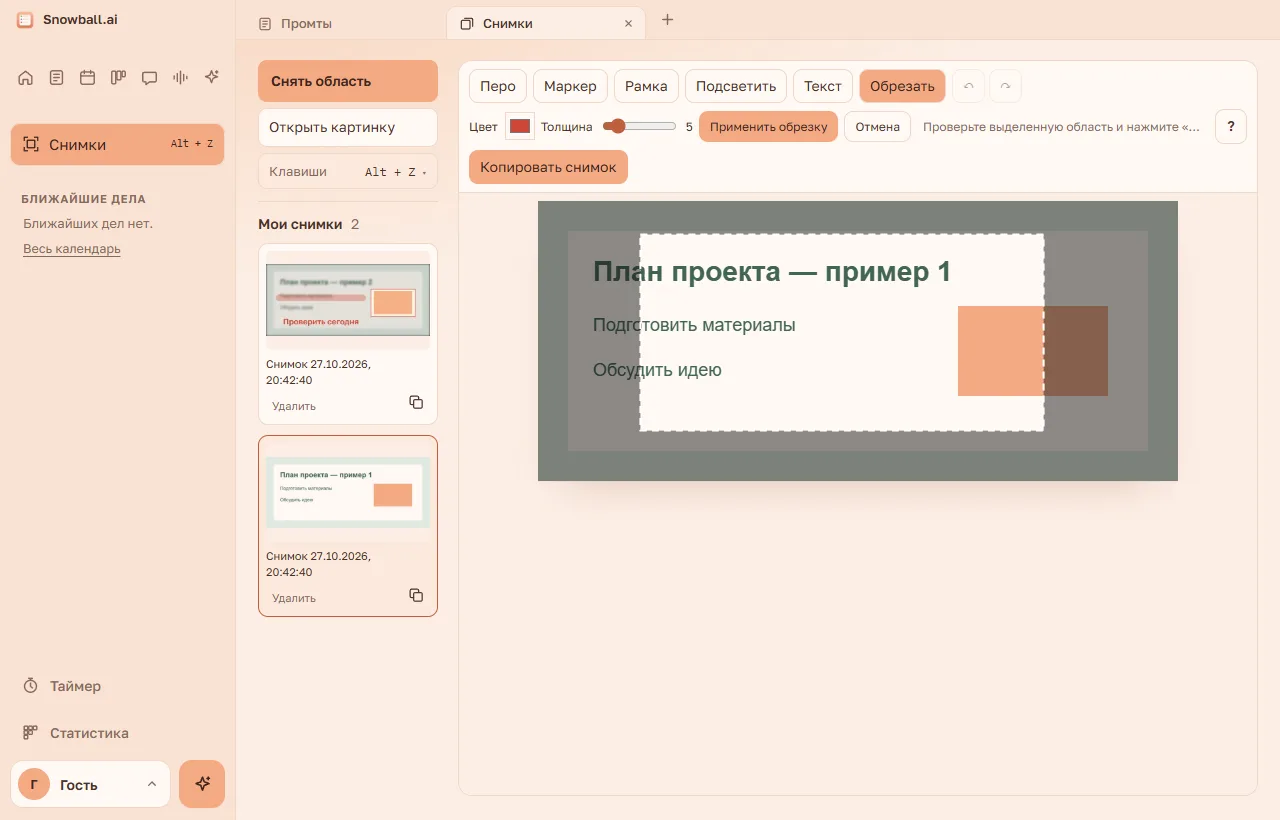
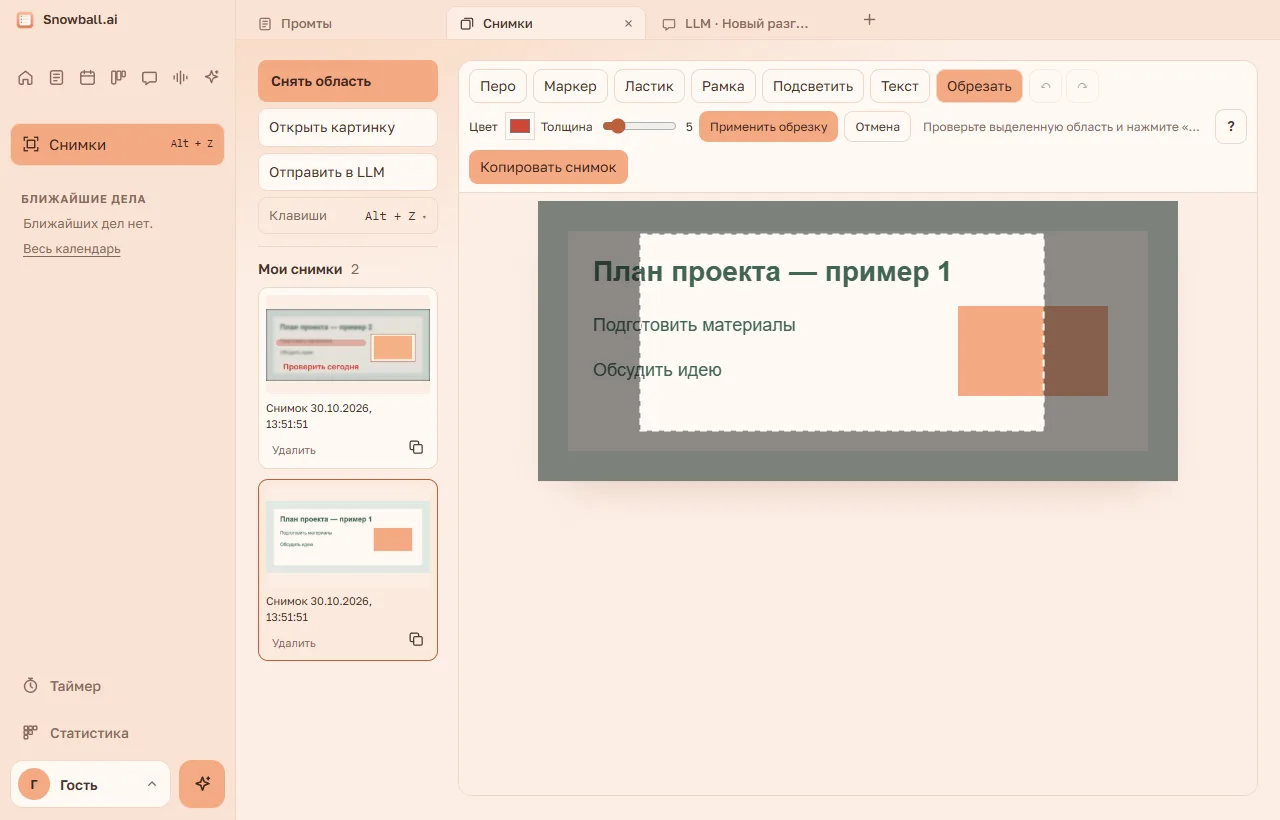
Версия 1.19.0: «Отправить в LLM» в разделе «Снимки»
Кнопка под «Открыть картинку» открывает новую вкладку LLM, где снимок
с пометками и обрезкой уже приложен к сообщению. Работает и из
отдельного окна редактора. Инструкция «Снимков» дополнена шагом и
переснята.

diff --git a/src/guides/guides.js b/src/guides/guides.js
@@ -74,7 +74,7 @@ window.GUIDES = [
       { box: "search", at: [1130, 330], label: "Поиск", text: "Введите слово — останутся только строки с ним, слово подсвечивается." },
       { box: "foot", at: [1130, 560], label: "Кнопки внизу", text: "«Спросить про созвон в LLM» — новый разговор с итогами и текстом. «Пересоздать итоги» — разобрать текст заново. «Убрать итоги» — убрать с дела (само дело остаётся)." }] }] }
   ] },
-  { version: "1.16.0", updated: "1.16.14", section: "screenshots", title: "Снимки", steps: [
+  { version: "1.16.0", updated: "1.19.0", section: "screenshots", title: "Снимки", steps: [
     { title: "Где найти и как снять", lead: "Снимки открываются отдельным разделом. Кнопки захвата — слева над историей, редактор занимает всё остальное место.", frames: [
       { shot: "01-where", points: [
         { box: "section", at: [110, 260], label: "Снимки", text: "Кнопка под иконками слева открывает историю и редактор." },
@@ -102,6 +102,16 @@ window.GUIDES = [
       { box: "blur", at: [700, 580], label: "Блюр фона", text: "Регулируйте размытие вокруг выделенной области. По умолчанию — 15%." },
       { box: "copy", at: [1080, 660], label: "Копировать", text: "В буфер попадёт готовая картинка со всеми пометками. Вставьте её в другую программу через Ctrl + V." }
     ] }] },
+    { title: "Спросить про снимок в LLM", lead: "Снимок можно сразу отдать нейросети: перевести текст на нём, найти ошибку, описать, что на картинке.", frames: [
+      { name: "1. Нажмите", shot: "08-llm-button", points: [
+        { box: "llm", at: [700, 560], label: "Отправить в LLM", text: "Отправляет открытый снимок вместе с пометками и обрезкой — ровно то, что видно в редакторе. Кнопка есть и в отдельном окне, которое открывается после снимка." }
+      ] },
+      { name: "2. Что получится", shot: "09-llm-chat", points: [
+        { box: "tab", at: [700, 120], label: "Новый разговор", text: "Открывается новая вкладка LLM. Прошлые разговоры не трогаются." },
+        { box: "attach", at: [380, 560], label: "Снимок уже здесь", text: "Снимок лежит в поле ввода как приложенная картинка. Крестик убирает его, скрепкой можно добавить ещё." },
+        { box: "input", at: [950, 570], label: "Напишите вопрос", text: "Например, «Переведи текст на картинке» или «Что здесь не так?», и нажмите Enter." }
+      ] }
+    ] },
     { title: "История, копирование и удаление", lead: "Все снимки остаются после перезапуска. С каждым можно работать отдельно.", frames: [{ shot: "05-history", points: [
       { box: "copy", at: [650, 520], label: "Копировать карточку", text: "Значок на карточке копирует именно этот снимок, не переключая текущий редактор." },
       { box: "remove", at: [650, 620], label: "Удалить", text: "Снимок сразу исчезает из истории, а его папка отправляется в корзину Windows." },

diff --git a/src/screenshots.js b/src/screenshots.js
@@ -178,6 +178,7 @@
               <span class="shot-capture-label">Снять область</span>
             </button>
             <button data-action="import">Открыть картинку</button>
+            <button data-action="llm" title="Новый разговор в LLM, где этот снимок уже приложен">Отправить в LLM</button>
             <div class="shot-pop-wrap">
               <button class="shot-key-btn" data-pop="key" aria-expanded="false" title="Сочетание для снимка">
                 <span>Клавиши</span>
@@ -420,6 +421,7 @@
       $('[data-action="undo"]').disabled = !current?.ops.length;
       $('[data-action="redo"]').disabled = !current?.redo.length;
       $('[data-action="copy"]').disabled = !current;
+      $('[data-action="llm"]').disabled = !current;
       $('.shot-crop-actions').hidden = !current || !cropSelection;
       $('[data-action="reset-crop"]').hidden = !current?.crop;
       $('.shot-pressure-label').hidden = tool !== 'marker';
@@ -683,8 +685,9 @@
         await open(initialId && ids.has(initialId) ? initialId : items[0].id);
       initialId = null;
     }
-    async function copyShot(id) {
-      if (!(await flush())) return;
+    // The picture as it looks now: with the marks and the crop, as PNG bytes. Null if the marks could not be saved.
+    async function shotPng(id) {
+      if (!(await flush())) return null;
       let s = current;
       const t = token;
       if (!s || s.id !== id) {
@@ -694,8 +697,20 @@
       const c = rendered(s),
         blob = await new Promise((r) => c.toBlob(r, 'image/png'));
       if (!blob) throw Error('Не удалось подготовить изображение.');
-      check(await api.captureCopy(id, t, new Uint8Array(await blob.arrayBuffer())));
+      return { t, bytes: new Uint8Array(await blob.arrayBuffer()) };
+    }
+    async function copyShot(id) {
+      const png = await shotPng(id);
+      if (!png) return;
+      check(await api.captureCopy(id, png.t, png.bytes));
       status('Снимок с пометками скопирован — можно вставить через Ctrl + V');
+    }
+    // «Отправить снимок в LLM»: the main window opens a new LLM tab with this picture attached to the message box.
+    async function sendToLlm(id) {
+      const png = await shotPng(id);
+      if (!png) return;
+      check(await api.captureToLlm(id, png.t, png.bytes));
+      status('Снимок отправлен в новый разговор LLM — напишите вопрос и нажмите Enter');
     }
     const point = (e) => {
       const r = canvas.getBoundingClientRect();
@@ -884,6 +899,9 @@
     $('[data-action="redo"]').addEventListener('click', () => undo(true));
     $('[data-action="copy"]').addEventListener('click', () =>
       run(() => current && copyShot(current.id)),
+    );
+    $('[data-action="llm"]').addEventListener('click', () =>
+      run(() => current && sendToLlm(current.id)),
     );
     $('[data-action="capture"]').addEventListener('click', () =>
       run(async () => {

diff --git a/src/guides/1.16.0/boxes.js b/src/guides/1.16.0/boxes.js
@@ -1,3 +1,3 @@
 // Made by tools/guide-shots/run.js: where the buttons are on each screenshot of this guide (pixels of 1280 × 820).
 window.GUIDE_BOXES = window.GUIDE_BOXES || {};
-window.GUIDE_BOXES["1.16.0"] = {"01-where":{"section":[10,123,215,43],"capture":[258,60,180,42],"key":[258,153,180,37],"help":[1049,109,32,34]},"01-keys":{"pop":[258,195,320,175],"change":[335,232,89,38],"reset":[271,276,153,38]},"02-tools":{"tools":[469,69,553,34],"pressure":[704,116,159,20],"color":[505,112,30,28],"brush":[886,262,60,60],"undo":[952,69,71,34]},"03-text":{"text":[602,365,301,56],"tool":[793,69,60,34]},"04-focus":{"tool":[685,69,102,34],"blur":[699,116,181,20],"image":[538,161,640,280],"copy":[1089,109,159,34]},"05-history":{"history":[258,60,180,736],"copy":[402,388,30,30],"remove":[266,395,56,22],"undo":[517,738,246,60]},"06-crop-selection":{"tool":[859,69,87,34],"selection":[538,201,640,280],"apply":[699,111,140,31]},"07-crop-result":{"image":[656,161,404,197],"reset":[699,111,147,31],"copy":[1089,109,159,34]}};
+window.GUIDE_BOXES["1.16.0"] = {"01-where":{"section":[10,123,215,43],"capture":[258,60,180,42],"key":[258,197,180,37],"help":[1049,109,32,34]},"01-keys":{"pop":[258,240,320,175],"change":[335,276,89,38],"reset":[271,320,153,38]},"02-tools":{"tools":[469,69,630,34],"pressure":[704,116,159,20],"color":[505,112,30,28],"brush":[886,262,60,60],"undo":[1029,69,71,34]},"03-text":{"text":[602,365,301,56],"tool":[870,69,60,34]},"04-focus":{"tool":[762,69,102,34],"blur":[699,116,181,20],"image":[538,161,640,280],"copy":[1089,109,159,34]},"08-llm-button":{"llm":[258,153,180,38]},"09-llm-chat":{"tab":[648,6,200,34],"attach":[538,619,64,64],"input":[536,695,707,32]},"05-history":{"history":[258,60,180,736],"copy":[402,432,30,30],"remove":[266,439,56,22],"undo":[517,738,246,60]},"06-crop-selection":{"tool":[936,69,87,34],"selection":[538,201,640,280],"apply":[699,111,140,31]},"07-crop-result":{"image":[656,161,404,197],"reset":[699,111,147,31],"copy":[1089,109,159,34]}};

diff --git a/tools/guide-shots/shots-1.16.0.js b/tools/guide-shots/shots-1.16.0.js
@@ -62,6 +62,14 @@ module.exports = async function ({ main, page, shot }) {
   await draw('focus', .64, .35, .91, .73);
   await ev('window.screenshotEditor.flush()');
   await guideShot('04-focus', { tool: '[data-tool=focus]', blur: '.shot-blur-label', image: '.shot-stage canvas', copy: '[data-action=copy]' });
+  // «Отправить в LLM»: the button, then the new LLM tab with the picture in the message box.
+  await guideShot('08-llm-button', { llm: '[data-action=llm]' });
+  await click('[data-action=llm]');
+  await until("document.querySelector('#chat-att .att-thumb:not(.loading)') && document.activeElement?.id === 'chat-input'");
+  await sleep(300);
+  await guideShot('09-llm-chat', { tab: '.tab.on', attach: '#chat-att .att-thumb', input: '#chat-input' });
+  await click('.capture-nav');
+  await until("!document.getElementById('view-screenshots').hidden");
   const deletedId = await ev("document.querySelector('.shot-card:last-child').dataset.id");
   await click('.shot-card:last-child .shot-delete');
   await until(`!document.querySelector('.shot-card[data-id=${JSON.stringify(deletedId)}]') && !document.querySelector('.shot-toast').hidden && document.querySelectorAll('.shot-card').length === 1`);

diff --git a/screenshots.js b/screenshots.js
@@ -432,6 +432,23 @@ module.exports = function setupScreenshots(options) {
     await options.record();
     return {};
   });
+  // The picture goes to the main window, which opens a new LLM tab with it (app.js, onCaptureLlm).
+  handle('capture-llm', async (_w, id, t, bytes) => {
+    check(t);
+    const item = await storage.get(id),
+      size = pngSize(bytes);
+    const view = item.crop || item;
+    if (size.width !== view.width || size.height !== view.height)
+      throw Error('Размер изображения не совпадает со снимком.');
+    const main = options.main() || windows().find((w) => !w.__snowCapture);
+    if (!main) throw Error('Главное окно программы закрыто.');
+    if (main.isMinimized()) main.restore();
+    main.show();
+    main.focus();
+    main.webContents.send('capture-llm', { name: item.name, bytes });
+    await options.record();
+    return {};
+  });
   handle('capture-shortcut', async (w, next) => {
     if (recording && recording.window !== w) throw Error('Сочетание уже меняется в другом окне.');
     try {

diff --git a/main.js b/main.js
@@ -2746,7 +2746,7 @@ if (!app.requestSingleInstanceLock()) {
     }
     pendingArchive = archiveFromArgs(process.argv);
     // The editor window gets "macos:<accent>" for the macOS theme (src/screenshots.js splits it).
-    captures = setupScreenshots({ dir: () => store.dir, theme: () => (currentTheme() === 'macos' ? 'macos:' + macAccent() : currentTheme()), key: () => settings.captureShortcut,
+    captures = setupScreenshots({ dir: () => store.dir, main: () => (win && !win.isDestroyed() ? win : null), theme: () => (currentTheme() === 'macos' ? 'macos:' + macAccent() : currentTheme()), key: () => settings.captureShortcut,
       initialized: () => !!settings.captureShortcutInitialized,
       saveKey: key => { settings.captureShortcut = key; settings.captureShortcutInitialized = true; saveSettings(true); },
       record: async () => { await store.recordScreenshot(); broadcast('sync', { activity: store.activityView() }); } });

diff --git a/preload.js b/preload.js
@@ -11,6 +11,8 @@ contextBridge.exposeInMainWorld('vsApi', {
   captureGet: (id, token) => ipcRenderer.invoke('capture-get', id, token),
   captureSave: (id, token, value) => ipcRenderer.invoke('capture-save', id, token, value),
   captureCopy: (id, token, bytes) => ipcRenderer.invoke('capture-copy', id, token, bytes),
+  captureToLlm: (id, token, bytes) => ipcRenderer.invoke('capture-llm', id, token, bytes),
+  onCaptureLlm: fn => { const f = (_e, shot) => fn(shot); ipcRenderer.on('capture-llm', f); return () => ipcRenderer.removeListener('capture-llm', f); },
   captureStart: () => ipcRenderer.invoke('capture-start'),
   captureImport: (filePath) => ipcRenderer.invoke('capture-import', filePath),
   captureShortcut: key => ipcRenderer.invoke('capture-shortcut', key),

diff --git a/src/app.js b/src/app.js
@@ -3284,6 +3284,12 @@
         } }));
     }));
   }
+  // «Отправить снимок в LLM» in «Снимки» (here or in the separate editor): a new LLM tab with the picture attached.
+  api.onCaptureLlm(function (shot) {
+    if (!shot || !shot.bytes) return;
+    openTab("assistant", { fresh: true });
+    addChatImages([new File([shot.bytes], (shot.name || "Снимок") + ".png", { type: "image/png" })]);
+  });
   els.chatAttach.addEventListener("click", function () { els.chatFile.value = ""; els.chatFile.click(); });
   els.chatFile.addEventListener("change", function () { if (els.chatFile.files.length) addChatImages(els.chatFile.files); });
   els.chatInput.addEventListener("paste", function (e) {

diff --git a/capture-preload.js b/capture-preload.js
@@ -8,6 +8,7 @@ contextBridge.exposeInMainWorld('vsApi', {
   captureGet: (id, token) => ipcRenderer.invoke('capture-get', id, token),
   captureSave: (id, token, value) => ipcRenderer.invoke('capture-save', id, token, value),
   captureCopy: (id, token, bytes) => ipcRenderer.invoke('capture-copy', id, token, bytes),
+  captureToLlm: (id, token, bytes) => ipcRenderer.invoke('capture-llm', id, token, bytes),
   captureStart: () => ipcRenderer.invoke('capture-start'),
   pathForFile: (file) => { try { return webUtils.getPathForFile(file) || ''; } catch (e) { return ''; } },
   captureImport: (filePath) => ipcRenderer.invoke('capture-import', filePath),

diff --git a/CLAUDE.md b/CLAUDE.md
@@ -29,7 +29,7 @@
 - Раздел «LLM» (бывший «Ассистент», вид `assistant`) — чат для длинных разговоров: слева «История» разговоров, справа лента сообщений, поле ввода (Enter — отправить, Shift+Enter — новая строка, Esc — остановить ответ), кнопка «Новый разговор». В узком окне история прячется за кнопкой «История».
 - Разговоры (сессии, `newSession` в `app.js`): у каждой вкладки LLM своя сессия со своими сообщениями, своим блоком в ленте (`box`) и недописанным текстом (`draft`); `chat` — сессия вкладки на экране (`showSession`), `quick` — маленького окна. Ответы приходят по номеру потока, поэтому разговоры в других вкладках дописываются в фоне (у вкладки точка «пишет ответ», по готовности подсказка внизу). Закрытие вкладки останавливает её ответ. Разговор из «Истории», уже открытый в другой вкладке, просто переключает на неё.
 - История: после каждого законченного сообщения разговор целиком сохраняется в `chats.json` в папке с данными (`chat-save`; ещё `chat-list`, `chat-get`, `chat-delete`; в `storage.js` — `saveChat`, `chatList`, `getChat`, `deleteChat`). Название — начало первого сообщения, оно же в названии вкладки «LLM · …». Пустой новый разговор не сохраняется. Удаление — по крестику с подтверждением «Удалить разговор?».
-- Картинки в сообщениях LLM (`addChatImages`, `renderAttach`, `chat.attach` — у каждой вкладки свои): скрепка в поле ввода (`#chat-attach`, скрытый `#chat-file`), Ctrl + V в поле (`paste`) и перетаскивание файлов на страницу LLM (ветка в общем `drop`). До 6 в сообщении (`ATTACH_MAX`). Окно само уменьшает картинку (`shrinkImage`: `createImageBitmap` → `OffscreenCanvas`, длинная сторона до 2048 px, JPEG 0.9, прозрачное — на белом) и сразу сохраняет её (IPC `chat-image-save`, до 8 МБ) в «Файлы чатов/<id разговора>/» в папке с данными (`saveChatImage`, `chatImagePath` в `storage.js`; имя файла — только `<id>.jpg|png`, `STORED_RE`). Крестик до отправки — `chat-image-remove`. В сообщении — `images: [{ id, name, stored }]` (`normalizeChatImages`), они же в `chats.json`; картинки в ленте берутся по адресу `file:///…` (`chatImageUrl`), клик открывает файл в Windows (`chat-image-open`). Для модели `history` передаёт имена картинок, `assistant-send` получает `{ chatId }` и пути, `withImages` читает файлы в base64: ChatGPT — части `input_text` + `input_image` (data URL), Claude — блоки `image` (base64) + `text`; без текста — «Посмотри на картинку.» (`IMAGE_ONLY_TEXT`). Заглушка отвечает, что видит N картинок. Оценка цены считает картинку как ~1500 токенов. Удаление разговора убирает его папку в корзину; резервная копия кладёт картинки в `chatfiles/<id>/` и возвращает их; смена папки копирует «Файлы чатов». Маленькое окно ассистента картинок не принимает.
+- Картинки в сообщениях LLM (`addChatImages`, `renderAttach`, `chat.attach` — у каждой вкладки свои): скрепка в поле ввода (`#chat-attach`, скрытый `#chat-file`), Ctrl + V в поле (`paste`), перетаскивание файлов на страницу LLM (ветка в общем `drop`) и кнопка «Отправить в LLM» в «Снимках» (новая вкладка, `onCaptureLlm`). До 6 в сообщении (`ATTACH_MAX`). Окно само уменьшает картинку (`shrinkImage`: `createImageBitmap` → `OffscreenCanvas`, длинная сторона до 2048 px, JPEG 0.9, прозрачное — на белом) и сразу сохраняет её (IPC `chat-image-save`, до 8 МБ) в «Файлы чатов/<id разговора>/» в папке с данными (`saveChatImage`, `chatImagePath` в `storage.js`; имя файла — только `<id>.jpg|png`, `STORED_RE`). Крестик до отправки — `chat-image-remove`. В сообщении — `images: [{ id, name, stored }]` (`normalizeChatImages`), они же в `chats.json`; картинки в ленте берутся по адресу `file:///…` (`chatImageUrl`), клик открывает файл в Windows (`chat-image-open`). Для модели `history` передаёт имена картинок, `assistant-send` получает `{ chatId }` и пути, `withImages` читает файлы в base64: ChatGPT — части `input_text` + `input_image` (data URL), Claude — блоки `image` (base64) + `text`; без текста — «Посмотри на картинку.» (`IMAGE_ONLY_TEXT`). Заглушка отвечает, что видит N картинок. Оценка цены считает картинку как ~1500 токенов. Удаление разговора убирает его папку в корзину; резервная копия кладёт картинки в `chatfiles/<id>/` и возвращает их; смена папки копирует «Файлы чатов». Маленькое окно ассистента картинок не принимает.
 - Маленькое окно ассистента (`#qa`, кнопка-звёздочка внизу слева или Ctrl + K) — для быстрых дел: календарь, задачи, вкладки. Отвечает всегда самая дешёвая модель с размышлениями «Быстро»: `gpt-6-luna`, если есть ключ ChatGPT, иначе `claude-haiku-5-5` (`QUICK_MODELS`, `quickModel` в `main.js`; `assistant-send` с `{ quick: true }`, к инструкции добавляется `QUICK_LINE` — отвечать коротко; уведомлений Windows нет). Выбора модели в окне нет, вверху подпись «GPT-6 Luna · Быстро». Разговор окна не сохраняется; «Заново» начинает его снова, «Открыть в LLM» переносит его в новую вкладку LLM и в «Историю». Клик мимо окна прячет его, ответ при этом дописывается.
 - Поле ввода устроено как в Claude: текст сверху, снизу кнопка «Модель» (`#model-btn`, подпись вида «GPT-6.1 Sol · Средне», без ключей «Заглушка · Средне»), оценка цены и кнопка отправки. В меню кнопки — модели только тех сервисов, для которых есть ключ, у каждого сервиса сверху самая сильная, снизу самая слабая (`MODELS` в `app.js` с названиями и в `main.js` с поставщиком), и строка «Размышления ›», которая раскрывает список вбок (`EFFORTS`: Быстро `low`, Средне `medium` с пометкой «Рекомендуется», Глубоко `high`, Очень глубоко `xhigh` «≈2× дороже», Максимум `max` «3–5× дороже»; все пять моделей принимают эти уровни). Меню не закрывается после выбора. Без ключей в меню подсказка «Подключить».
 - Цена: под каждым ответом его стоимость (`msg.cost`, считает `main.js` по токенам всех запросов ответа — `runCost`, приходит в событии `done`; сохраняется в истории). Рядом с кнопкой «Модель» оценка до отправки «≈ $… за ответ» (`estimateCost`): длина разговора и инструкции (`fixedChars`) делённая на 3 — входные токены, плюс обычная длина ответа для уровня размышлений (`EFFORTS[].out`), по ценам `PRICES`. Это грубая прикидка.
@@ -62,9 +62,10 @@
 
 ## Снимки экрана
 - Круг `.shot-brush-preview` поверх холста показывает настоящий диаметр пера или маркера с учётом масштаба просмотра (у маркера ширина следа в 5 раз больше выбранной толщины). Он есть только у пера и маркера, следует за мышью и прячется, когда мышь уходит со снимка (`overCanvas`). При выборе пера или маркера и при движении ползунков «Толщина» и «Нажим» круг на секунду показывается (`showSizing`): под мышью, если она на снимке, иначе посередине. В сохранённое или скопированное изображение круг не входит.
-- Раздел «Снимки» (вид `screenshots`, `TABS.screenshots`): не иконка в `.side-icons`, а отдельная широкая кнопка `.capture-nav` под ними с сочетанием клавиш. Интерфейс раздела целиком рисует `SnowCapture.mount` из `src/screenshots.js` (в главном окне — при первом открытии раздела, `window.screenshotEditor`). Шапки у раздела нет (с 1.16.14, макеты `mockups/screenshots-compact.html` и `mockups/screenshots-placement.html`): слева сверху `.shot-actions` — «＋ Снять область», «Открыть картинку» и кнопка «Клавиши Alt + Z ▾» (`.shot-key-btn`, при неработающем сочетании красный «!»; по клику окошко `.shot-key-pop` с `SnowShortcut` — «Изменить», «Сбросить на Alt + Z» и подписью), под ними «Мои снимки» (карточки с кнопкой копирования); справа редактор с одной строкой `.shot-bar`: инструменты, их настройки, строка сохранения (`.shot-status`, в одну строку, размер снимка — в подсказке), «?» (`.shot-help-pop`: подсказки по захвату и «Как пользоваться») и «Копировать снимок». Окошки закрываются кликом мимо и Esc, но не во время записи сочетания (запись сама отменяется, если её поле не видно — MutationObserver в `capture-shortcut.js`). Редактор — «Перо», «Маркер» (с «Нажимом» — прозрачность), «Рамка», «Подсветить» (область чёткая, фон размыт, «Блюр фона»), «Текст» (прямоугольник, размер букв подбирается под него — `textLayout`; Ctrl + Enter — готово), «Обрезать» (выделить область и применить; исходник и пометки остаются, «Вернуть весь снимок» снимает обрезку), отменить/вернуть пометку (Ctrl + Z, Ctrl + Shift + Z), цвет, толщина, «Копировать снимок». Снимок стоит сразу под строкой инструментов, по центру по ширине (`.shot-stage`, `align-items: flex-start`); большой уменьшается под свободное место, маленький показывается в настоящем размере — `fitCanvas` не увеличивает больше 100%, чтобы не мутнел. Отдельное окно редактора занимает 80% рабочего пространства экрана. «Открыть картинку» принимает png, jpg, webp. Пометки и обрезка сохраняются сами через 350 мс. У карточки есть «Удалить»: папка сразу уходит в корзину Windows (`shell.trashItem`), снизу 7 секунд «Снимок удалён · Отменить». Для отмены главный процесс держит временную копию; после срока удаляет только её, оригинал остаётся в корзине. Удаление и восстановление не считаются в статистике.
+- Раздел «Снимки» (вид `screenshots`, `TABS.screenshots`): не иконка в `.side-icons`, а отдельная широкая кнопка `.capture-nav` под ними с сочетанием клавиш. Интерфейс раздела целиком рисует `SnowCapture.mount` из `src/screenshots.js` (в главном окне — при первом открытии раздела, `window.screenshotEditor`). Шапки у раздела нет (с 1.16.14, макеты `mockups/screenshots-compact.html` и `mockups/screenshots-placement.html`): слева сверху `.shot-actions` — «＋ Снять область», «Открыть картинку», «Отправить в LLM» (см. ниже) и кнопка «Клавиши Alt + Z ▾» (`.shot-key-btn`, при неработающем сочетании красный «!»; по клику окошко `.shot-key-pop` с `SnowShortcut` — «Изменить», «Сбросить на Alt + Z» и подписью), под ними «Мои снимки» (карточки с кнопкой копирования); справа редактор с одной строкой `.shot-bar`: инструменты, их настройки, строка сохранения (`.shot-status`, в одну строку, размер снимка — в подсказке), «?» (`.shot-help-pop`: подсказки по захвату и «Как пользоваться») и «Копировать снимок». Окошки закрываются кликом мимо и Esc, но не во время записи сочетания (запись сама отменяется, если её поле не видно — MutationObserver в `capture-shortcut.js`). Редактор — «Перо», «Маркер» (с «Нажимом» — прозрачность), «Рамка», «Подсветить» (область чёткая, фон размыт, «Блюр фона»), «Текст» (прямоугольник, размер букв подбирается под него — `textLayout`; Ctrl + Enter — готово), «Обрезать» (выделить область и применить; исходник и пометки остаются, «Вернуть весь снимок» снимает обрезку), отменить/вернуть пометку (Ctrl + Z, Ctrl + Shift + Z), цвет, толщина, «Копировать снимок». Снимок стоит сразу под строкой инструментов, по центру по ширине (`.shot-stage`, `align-items: flex-start`); большой уменьшается под свободное место, маленький показывается в настоящем размере — `fitCanvas` не увеличивает больше 100%, чтобы не мутнел. Отдельное окно редактора занимает 80% рабочего пространства экрана. «Открыть картинку» принимает png, jpg, webp. Пометки и обрезка сохраняются сами через 350 мс. У карточки есть «Удалить»: папка сразу уходит в корзину Windows (`shell.trashItem`), снизу 7 секунд «Снимок удалён · Отменить». Для отмены главный процесс держит временную копию; после срока удаляет только её, оригинал остаётся в корзине. Удаление и восстановление не считаются в статистике.
 - Захват: глобальное сочетание (`globalShortcut`) работает поверх любых программ, пока Snowball запущена: `Alt+Z` по умолчанию или своё сочетание через «Изменить» (хранится в `settings.captureShortcut`; запасные `Alt+V` и `Alt+B` пробуются только при первом запуске без прежнего выбора, предупреждение видно в левой панели без открытия раздела; выбранное сочетание также показывается в настройках). `start` прячет окно, которое попросило (и ждёт 180 мс, чтобы оно исчезло; по сочетанию клавиш не ждёт), снимает все мониторы (`desktopCapturer`) и показывает на каждом окно выделения `capture-overlay.html` (Shift — квадрат, правая кнопка — весь монитор, Esc — отмена, через 2 минуты закрывается само). Окна выделения готовятся заранее, по одному на монитор, через 3 секунды после запуска (`pool`, `warm`, `makeOverlay`), и между захватами только прячутся (`capture-reset` стирает картинку); при подключении, отключении или смене масштаба монитора пересоздаются. Снимок экрана уходит в окно сырыми точками (`capture-frame`, `toBitmap`: B, G, R, A — окно переставляет в R, G, B, A), без упаковки в PNG; окно показывается, когда нарисовало (`capture-ready`). Так захват занимает ~0,3 с вместо ~1,1 с; почти всё оставшееся время — сам `desktopCapturer.getSources` (иногда Windows отвечает 1–4 с, это от нас не зависит). Замер: `node tools/screenshot-timing.cjs [раз]` (настоящий экран, отдельный профиль, каждый захват отменяется; переменная `SNOWBALL_CAPTURE_TIMING=1` печатает время каждого шага). Спрятанные окна выделения не должны держать программу: при закрытии последнего обычного окна их убирает `captures.releaseOverlays()`. После выделения снимок сохраняется и открывается отдельное окно редактора `capture-editor.html` (одно на всю программу). Окна захвата и редактора помечены `__snowCapture`, `liveWins` в `main.js` их не видит; тему им шлёт `captures.theme()`. При закрытии последнего обычного окна `captures.closeAuxiliary()` сохраняет пометки и закрывает редактор и выделение. Окно, попросившее захват кнопкой, явно возвращается после завершения или отмены.
-- IPC (в `screenshots.js`, ответ `{ ok, … }`): `capture-list`, `capture-get`, `capture-save`, `capture-copy`, `capture-start`, `capture-import`, `capture-shortcut`, `capture-delete`, `capture-restore`, `capture-guide`; только для окна выделения — `capture-ready`, `capture-choose`, `capture-cancel`; события `capture-changed`, `capture-open`, `capture-theme`, окну выделения — `capture-frame` и `capture-reset`. Запросы несут `token`: при смене папки с данными он меняется (`pause`/`resume` вокруг `change-data-dir`), старые окна получают ошибку.
+- «Отправить в LLM» (`data-action="llm"`, неактивна без открытого снимка): снимок с пометками и обрезкой, как при «Копировать снимок» (`shotPng`), уходит PNG в IPC `capture-llm` (`sendToLlm`); главный процесс проверяет размер, выводит вперёд главное окно (`options.main()` — `win`) и шлёт ему событие `capture-llm` `{ name, bytes }`. Там `api.onCaptureLlm` открывает новую вкладку LLM (`openTab("assistant", { fresh: true })`) и кладёт снимок в поле ввода через `addChatImages` — как приложенную картинку, текст пустой. Работает и из отдельного окна редактора. Считается в статистике `screenshots`, как копирование.
+- IPC (в `screenshots.js`, ответ `{ ok, … }`): `capture-list`, `capture-get`, `capture-save`, `capture-copy`, `capture-llm`, `capture-start`, `capture-import`, `capture-shortcut`, `capture-delete`, `capture-restore`, `capture-guide`; только для окна выделения — `capture-ready`, `capture-choose`, `capture-cancel`; события `capture-changed`, `capture-open`, `capture-theme`, главному окну — `capture-llm`, окну выделения — `capture-frame` и `capture-reset`. Запросы несут `token`: при смене папки с данными он меняется (`pause`/`resume` вокруг `change-data-dir`), старые окна получают ошибку.
 - Хранение (`ScreenshotStore`): папка «Снимки» в папке с данными, по папке `s<32 hex>/` на снимок: `original.png` (не меняется) и `meta.json` (`format: 'snowball-screenshot'`, размеры исходника, `crop` — область просмотра или `null`, `ops` — пометки в координатах исходника, `blur`, `thumb`, `revision`). Запись атомарная; сохранение со старым `revision` отклоняется («Снимок уже изменён в другом окне»). Резервная копия кладёт их в `screenshots/<id>/` и добавляет только отсутствующие (`captures.backup`/`merge`), смена папки копирует «Снимки» (`copyDataTo`). Статистика считает создание/импорт и копирование снимка (`screenshots`, `recordScreenshot`), без удаления, отмены и загрузки резервной копии.
 - Проверка: `node --test tools/screenshot-store.test.cjs` (хранение), `tools/screenshot-smoke.cjs` и `tools/screenshot-preview.cjs`. Проверки занятых клавиш — `tools/screenshot-fallback.test.cjs`. Инструкция «Как пользоваться»: `src/guides/1.16.0/`, сценарий `tools/guide-shots/shots-1.16.0.js`, в `guides.js` версия `1.16.0`, `updated: "1.16.14"`; у первого шага два кадра (`01-where` и `01-keys` — открытое окошко «Клавиши»). Сценарий показывает Alt + Z только в учебных кадрах, независимо от занятого системного сочетания; реальную регистрацию не меняет. Кнопка есть в разделе и в отдельном редакторе (открывает инструкцию в главном окне).
 

diff --git a/CHANGELOG.md b/CHANGELOG.md
@@ -1,5 +1,13 @@
 # Что нового в Snowball.ai
 
+## 1.19.0
+
+### Снимок — сразу в разговор с LLM
+- В разделе «Снимки» слева, под «Открыть картинку», появилась кнопка **«Отправить в LLM»**. Она открывает новую вкладку LLM, где снимок уже приложен к сообщению. Остаётся написать вопрос, например «Переведи текст на картинке» или «Что здесь не так?», и нажать Enter.
+- Отправляется снимок вместе с пометками и обрезкой — то, что видно в редакторе.
+- Кнопка есть и в отдельном окне, которое открывается сразу после снимка: тогда вкладка LLM откроется в главном окне программы.
+- В инструкции «Как пользоваться» для «Снимков» появился новый шаг про эту кнопку.
+
 ## 1.18.2
 
 ### Исправлено в теме «macOS»
